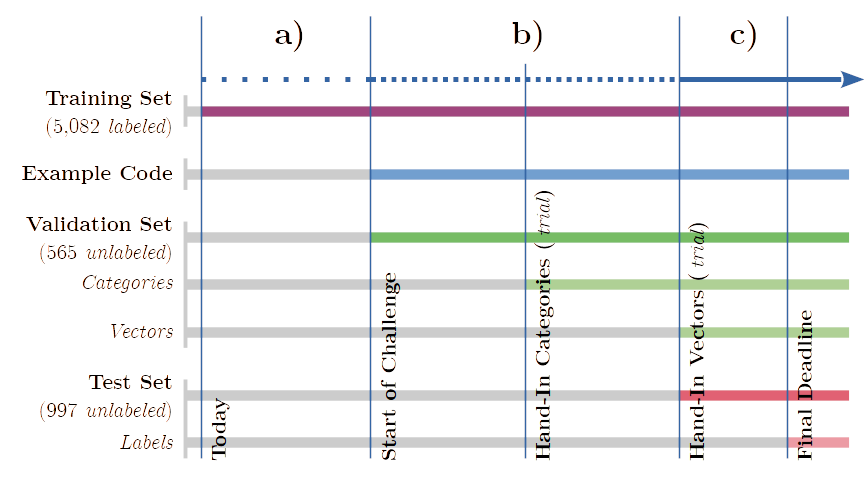
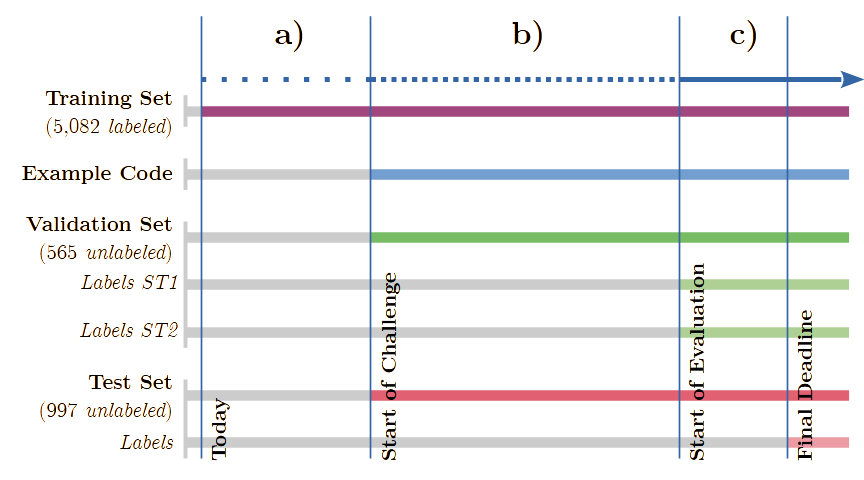
Combined conception phase to one phase

diff --git a/README.md b/README.md
@@ -23,29 +23,25 @@ The task focuses on detecting the hazard and uses a two-step scoring metric base
    <p>Figure 2: <i>Challenge timeline: (a) Trial Phase; (b) Conception Phase; (c) Evaluation Phase.</i></p>
 </div>
 
-The timeline is shown in Figure 2. Participants get training and validation data to build, train, and assess their systems before the evaluation period. The challenge takes place on [Codalab](https://codalab.lisn.upsaclay.fr/competitions/19955) and will be divided into **five phases** (all deadlines AoE time):
+The timeline is shown in Figure 2. Participants get training and validation data to build, train, and assess their systems before the evaluation period. The challenge takes place on [Codalab](https://codalab.lisn.upsaclay.fr/competitions/19955) and will be divided into **four phases** (all deadlines AoE time):
 
 1. **Trial Phase** (*before September 2nd 2024*)
    - [labeled trial/training data (5,082 samples)](https://github.com/food-hazard-detection-semeval-2025/food-hazard-detection-semeval-2025.github.io/tree/main/data/incidents_train.csv) are available for devising and training models.
 
-2. **Conception Phase ST1** (*September 2nd 2024 to October 14th 2024*)
+2. **Conception Phase** (*September 2nd 2024 to January 10th 2025*)
    - [Unlabeled validation data (565 samples)](https://codalab.lisn.upsaclay.fr/my/datasets/download/26c12bc0-3878-4edf-8b4a-9682763c0b7e) are released
    - [Unlabeled test data (997 samples)](https://codalab.lisn.upsaclay.fr/my/datasets/download/5695a2da-4c2b-4447-8c0c-2a30252f648c) are released
-   - [Codalab](https://codalab.lisn.upsaclay.fr/competitions/19955) accepts test submissions for ST1 (category classification) **on the validation data**. Only the predictions in **.csv** format will be uploaded.
+   - [Codalab](https://codalab.lisn.upsaclay.fr/competitions/19955) accepts separate trial submissions for ST1 (category classification) and ST2 (vector classification) **on the validation data**. Only the predictions in **.csv** format (zipped) will be uploaded.
 
-3. **Conception Phase ST2** (*October 14th 2024 to January 10th 2025*)
-   - Validation labels for ST1 are released
-   - [Codalab](https://codalab.lisn.upsaclay.fr/competitions/19955) accepts test submissions for ST2 (vector classification) **on the validation data**. Only the predictions in **.csv** format will be uploaded.
+3. **Evaluation Phase** (*January 10th 2025 to January 17th 2025*)
+   - Validation labels (ST1 and ST2) are released
+   - [Codalab](https://codalab.lisn.upsaclay.fr/competitions/19955) accepts final submissions for both tasks **on the test data**. Only the predictions in **.csv** format (zipped) will be uploaded.
 
-4. **Evaluation Phase** (*January 10th 2025 to January 17th 2025*)
-   - Validation labels for ST2 are released
-   - [Codalab](https://codalab.lisn.upsaclay.fr/competitions/19955) accepts final submissions for both tasks **on the test data**. Only the predictions in **.csv** format will be uploaded.
-
-5. **Paper Phase** (*January 17th 2025 to February 28th 2025*)
-   - Labeled test data (997 samples) are released
+4. **Paper Phase** (*January 17th 2025 to February 28th 2025*)
+   - Test labels (ST1 and ST2) are released
    - Participants describe their systems in scientific papers and commit them to [SemEval 2025](https://semeval.github.io/SemEval2025/)
 
-The two stages of the Conception Phase are intended to enable participants to compare their submission to each of the sub-tasks to other participants' approaches. Therefore, we encourage uploading approaches during both stages of the conception phase to get a feel for the competition.
+The two stages of the Conception Phase are intended to enable participants to compare their submission to each of the sub-tasks to other participants' approaches. Therefore, we encourage uploading approaches for both sub-tasks of the conception phase to get a feel for the competition.
 
 **Explainability** in food risk classification based on texts is currently underexplored although it may help humans quickly assess prediction validity and can be used for meta-learning approaches like clustering or pre-sorting examples. However, explanations can be diverse and task/model-dependent. Current literature includes both model-specific ([Assael et al., 2022](https://www.nature.com/articles/s41586-022-04448-z); [Pavlopoulos et al., 2022](https://aclanthology.org/2022.acl-long.259/)) and model agnostic ([Ribeiro et al., 2016](https://aclanthology.org/N16-3020/)) approaches. We aim to study mechanisms to explain decisions on food safety risks by asking participants to submit precise "vector"-labels (ST2) as explanations for their ST1 predictions.
 
